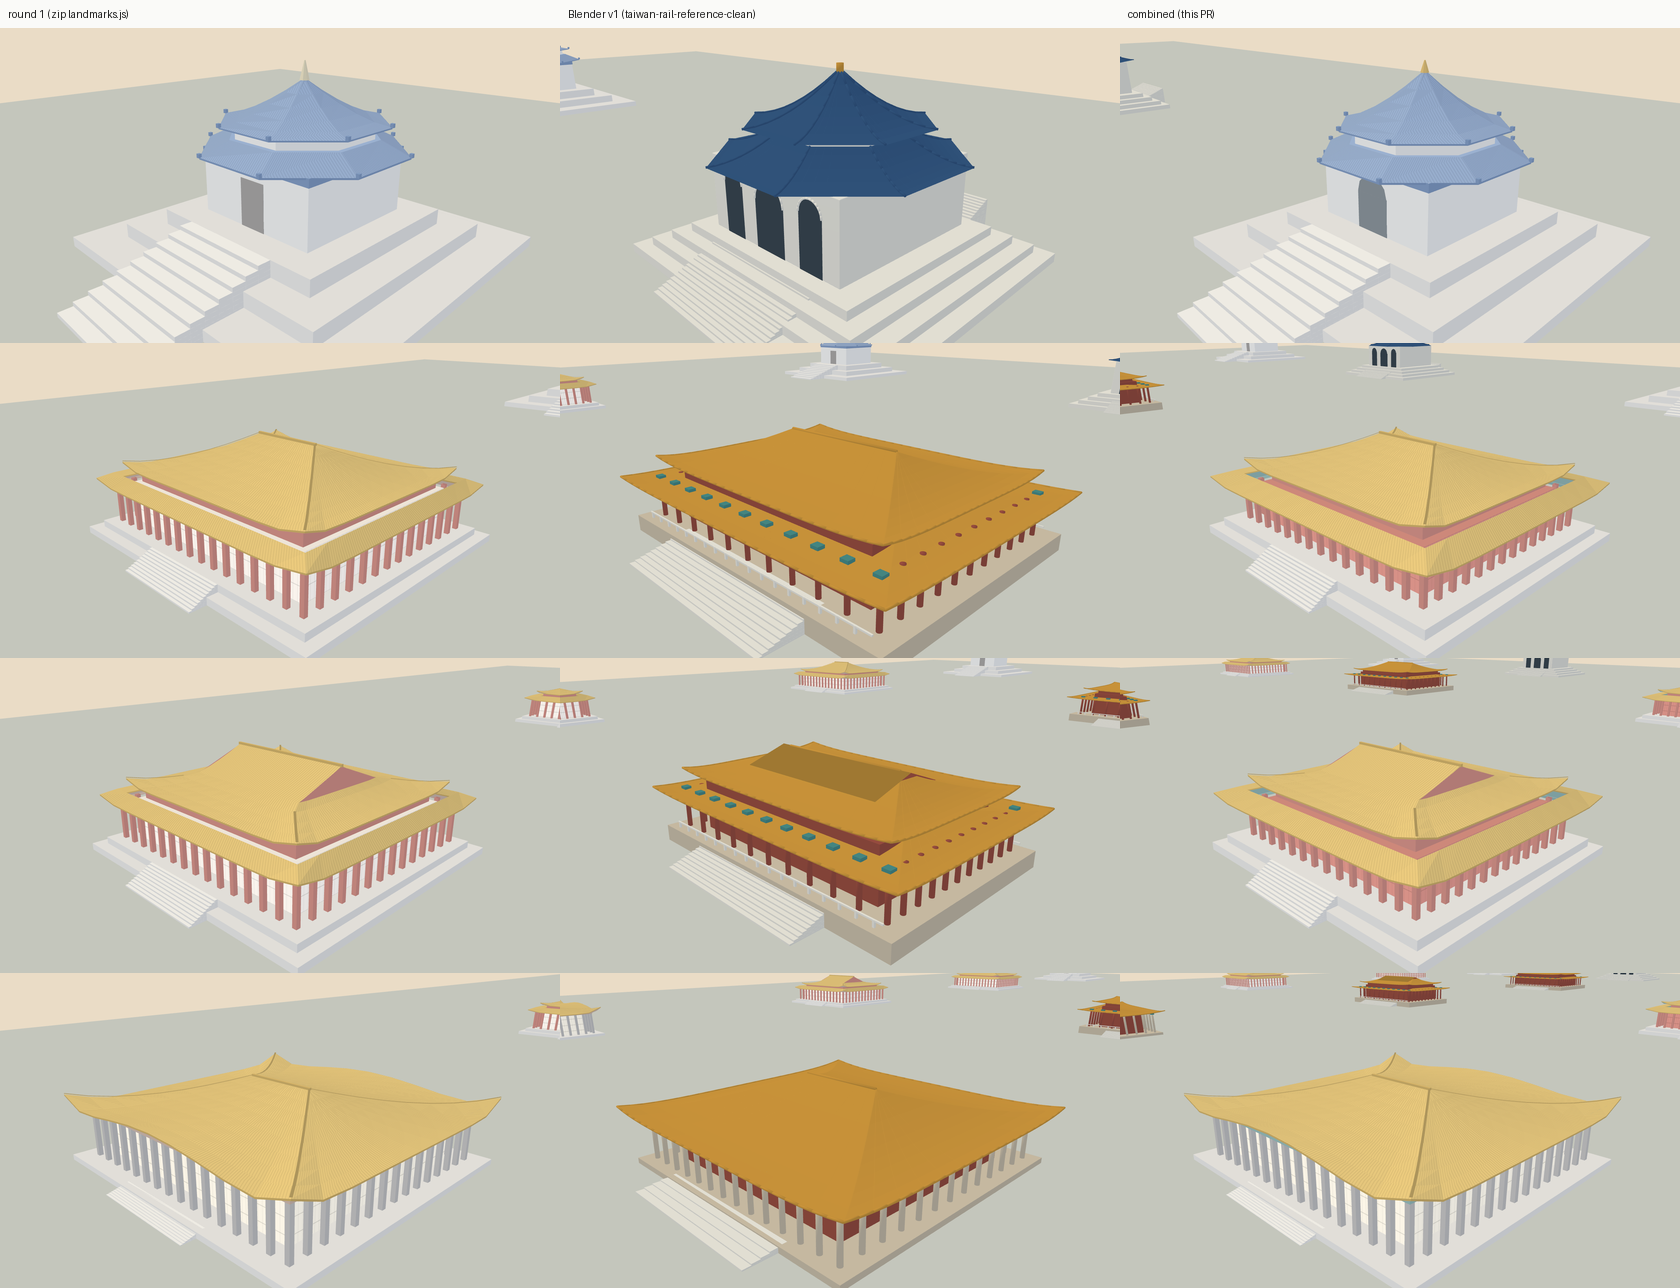
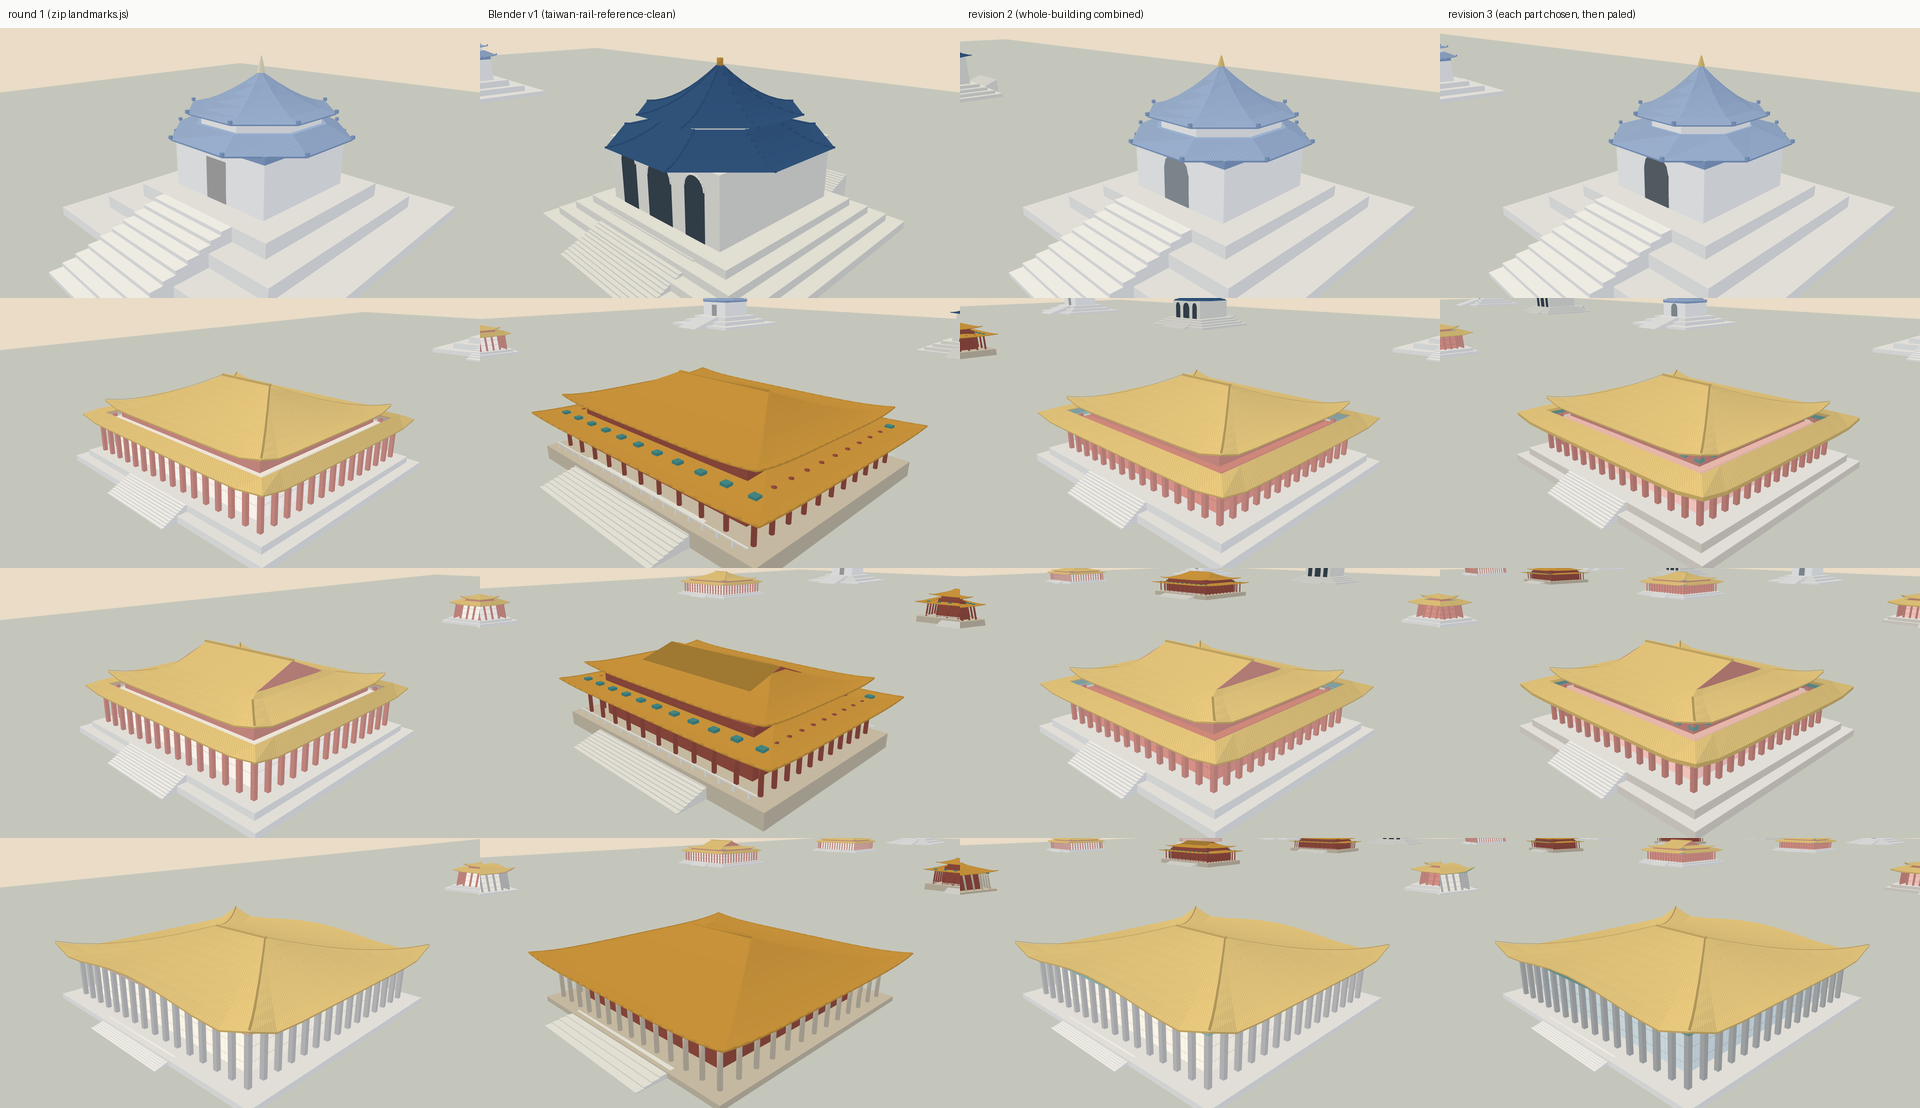
Map3D: the landmarks' parts chosen one by one, then paled (decision 457)
Each building's parts are now picked separately from round 1, the Blender
models and round 2: the memorial hall's smaller upper eave over a white
drum and dark doorway, the halls' heavy lower eave (chineseRoof's new lip),
red clerestory with green brackets, darker columns and stone podium, Sun
Yat-sen hall's glass walls. The colours are paled together and keep each
building's order of light to dark, which a test pins.

Claude-Session: https://claude.ai/code/session_01YGNNupg9BaQswnXKhfrkdv

diff --git a/Sources/GamePresentation/Map3DTaipeiPalaces.swift b/Sources/GamePresentation/Map3DTaipeiPalaces.swift
@@ -137,14 +137,14 @@ extension LandmarkMesh {
         // white drum, the upper roof to its peak, the finial.
         let sides = 8
         let phase = Float.pi / 8
-        let lowOut = Self.polygon(sides, 38, 0, cy, phase: phase), lowIn = Self.polygon(sides, 27.5, 0, cy, phase: phase)
+        let lowOut = Self.polygon(sides, 38, 0, cy, phase: phase), lowIn = Self.polygon(sides, 22, 0, cy, phase: phase)
         wallBand(lowOut, 37.9, lowOut, 38.5, ridge, Self.plain)
         band(lowOut, [Float](repeating: 38.5, count: sides), lowIn, [Float](repeating: 43.5, count: sides), blue, Self.tiles)
         cap(lowOut.reversed(), 37.9, colour("blueRidge"), Self.plain)
-        let drum = Self.polygon(sides, 25.5, 0, cy, phase: phase)
+        let drum = Self.polygon(sides, 21, 0, cy, phase: phase)
         wallBand(drum, 43.5, drum, 48.5, hall, Self.plain)
         cap(lowIn, 43.5, blue, Self.plain)
-        let upOut = Self.polygon(sides, 31, 0, cy, phase: phase)
+        let upOut = Self.polygon(sides, 27.7, 0, cy, phase: phase)
         wallBand(upOut, 48, upOut, 48.5, ridge, Self.plain)
         cap(upOut.reversed(), 48, ridge, Self.plain)
         pyramidRoof(upOut, 0, cy, from: 48.5, to: 66, steps: full ? 5 : 3, blue)
@@ -153,7 +153,7 @@ extension LandmarkMesh {
         wallBand(foot, 65.9, tip, 70, colour("finial"), Self.plain)
         cap(tip, 70, colour("finial"), Self.plain)
         if full {
-            for (r, z) in [(Float(31), Float(48.5)), (38, 38.5)] {
+            for (r, z) in [(Float(27.7), Float(48.5)), (38, 38.5)] {
                 for p in Self.polygon(8, r, 0, cy, phase: phase) {
                     box(p.x - 0.6, p.y - 0.6, z, p.x + 0.6, p.y + 0.6, z + 1.4, ridge, Self.plain)
                 }
@@ -205,20 +205,23 @@ extension LandmarkMesh {
     /// hip-and-gable (歇山); broad steps up the front (-y), toward the
     /// square.
     mutating func performingArtsHall(_ hx: Float, _ hy: Float, kind: RoofKind) {
-        let stone = colour("stone"), red = colour("vermilion"), gold = colour("goldTile"), goldRidge = colour("goldRidge")
-        box(-hx, -hy, 0, hx, hy, 3, stone, Self.plain, top: colour("plinth"))
-        box(-hx + 4, -hy + 4, 3, hx - 4, hy - 4, 6, stone, Self.plain, top: colour("plinth"))
+        let stone = colour("stone"), red = colour("hallColumn"), gold = colour("goldTile"), goldRidge = colour("goldRidge")
+        let podium = colour("podium"), bracket = colour("bracket")
+        box(-hx, -hy, 0, hx, hy, 3, podium, Self.plain, top: colour("plinth"))
+        box(-hx + 4, -hy + 4, 3, hx - 4, hy - 4, 6, podium, Self.plain, top: colour("plinth"))
         stairs(width: 34, from: -hy - 6, to: -hy + 4, height: 6, stone)
         // The hall behind a gallery 4 m deep, 14 m to the lower eave.
         let wx = hx - 15, wy = hy - 15
         box(-wx, -wy, 6, wx, wy, 20, colour("hallRed"), Self.floors)
         colonnade(hx - 11, hy - 11, 6, 20, step: 6, size: 1.6, red)
         let deck: [P2] = [(-(hx - 10), -(hy - 10)), (hx - 10, -(hy - 10)), (hx - 10, hy - 10), (-(hx - 10), hy - 10)]
-        wallBand(deck, 19, deck, 20, colour("bracket"), Self.plain)
-        // The double eave 9 m out past the columns, a red clerestory
-        // between, the upper eave over the columns.
+        wallBand(deck, 18.8, deck, 20, red, Self.plain)
+        // The double eave 9 m out past the columns, its lower edge heavy, a
+        // red clerestory between dotted with green-painted brackets at its
+        // foot, the upper eave over the columns.
+        colonnade(hx - 17.5, hy - 17.5, 22.2, 23.4, step: 6, size: 2.2, bracket)
         chineseRoof(hx - 8.5, hy - 8.5, eaves: 20, over: 6.5, rise: 11, sweep: 2.4, kind: kind, tiers: 2, tierRise: 6, tierInset: 9,
-                    colours: ChineseRoofColours(tile: gold, ridge: goldRidge, underside: colour("bracket"), gable: red, wall: red))
+                    lip: 1.2, colours: ChineseRoofColours(tile: gold, ridge: goldRidge, underside: bracket, gable: red, wall: red))
         // The plan with its steps, as OSM's, round the origin.
         shift(from: 0, by: (0, 3))
     }
@@ -326,7 +329,7 @@ extension LandmarkMesh {
     // MARK: Sun Yat-sen Memorial Hall and the Grand Hotel
 
     /// Sun Yat-sen Memorial Hall (OSM way 189788192, 30 m, its roof 10 m):
-    /// on a low white platform, grey columns round a cream hall under a
+    /// on a low white platform, grey columns round a glass hall under a
     /// gold roof whose corners sweep high and whose front and back eaves
     /// rise in the middle.
     mutating func sunYatSenMemorialHall() {
@@ -344,7 +347,7 @@ extension LandmarkMesh {
             }
         }
         let wx = hx - 12, wy = hy - 12
-        box(-wx, -wy, 2, wx, wy, 19, colour("cream"), Self.floors)
+        box(-wx, -wy, 2, wx, wy, 19, colour("hallGlass"), Self.floors)
         colonnade(hx - 7, hy - 7, 2, 19, step: 6.5, size: 1.6, colour("column"))
         let deck: [P2] = [(-(hx - 6), -(hy - 6)), (hx - 6, -(hy - 6)), (hx - 6, hy - 6), (-(hx - 6), hy - 6)]
         wallBand(deck, 18.6, deck, 19.5, colour("bracket"), Self.plain)

diff --git a/Sources/GamePresentation/Map3DChineseRoof.swift b/Sources/GamePresentation/Map3DChineseRoof.swift
@@ -97,16 +97,16 @@ extension LandmarkMesh {
 
     /// A double eave's lower roof (重簷): from walls of half sides `hx`,
     /// `hy` at `z1` out `over` and down to its eaves at `z0`, corners swept
-    /// up `sweep`; its edge and underside.
-    mutating func skirtRoof(_ hx: Float, _ hy: Float, eaves z0: Float, wall z1: Float, over: Float, sweep: Float,
+    /// up `sweep`; its edge `lip` thick and underside.
+    mutating func skirtRoof(_ hx: Float, _ hy: Float, eaves z0: Float, wall z1: Float, over: Float, sweep: Float, lip: Float = 0.45,
                             tile: UInt32, edge: UInt32, underside: UInt32) {
         let perSide = full ? (hx + over > 20 ? 10 : 6) : 4
         let (ringIn, nearIn) = Self.rectRing(hx, hy, perSide: perSide)
         let ringOut = ringIn.map { (x: $0.x * (hx + over) / hx, y: $0.y * (hy + over) / hy) }
         let up = nearIn.map { n -> Float in let t = 1 - min(n, 0.3) / 0.3; return sweep * t * t }
         band(ringOut, up.map { z0 + $0 }, ringIn, up.map { _ in z1 }, tile, Self.tiles)
-        band(ringOut, up.map { z0 - 0.45 + $0 }, ringOut, up.map { z0 + $0 }, edge, Self.plain)
-        band(ringIn, up.map { _ in z0 - 0.45 }, ringOut, up.map { z0 - 0.45 + $0 }, underside, Self.plain)
+        band(ringOut, up.map { z0 - lip + $0 }, ringOut, up.map { z0 + $0 }, edge, Self.plain)
+        band(ringIn, up.map { _ in z0 - lip }, ringOut, up.map { z0 - lip + $0 }, underside, Self.plain)
     }
 
     /// A Chinese roof of `tiers` eaves over walls of half sides `hx`, `hy`:
@@ -116,15 +116,15 @@ extension LandmarkMesh {
     /// the top roof rising `rise` from its eave, so the whole is
     /// `z0 + (tiers - 1) * tierRise + rise` high. Corners swept up `sweep`
     /// (the skirts 0.8 of it), the front and back eaves' middles `arch`
-    /// higher. Nothing in it belongs to one building: sizes and colours are
+    /// higher; the skirts' edges `lip` thick. Nothing in it belongs to one building: sizes and colours are
     /// the caller's.
     mutating func chineseRoof(_ hx: Float, _ hy: Float, eaves z0: Float, over: Float, rise: Float, sweep: Float,
                               kind: RoofKind = .hipped, arch: Float = 0, tiers: Int = 1, tierRise: Float = 0, tierInset: Float = 0,
-                              colours: ChineseRoofColours) {
+                              lip: Float = 0.45, colours: ChineseRoofColours) {
         precondition(tiers >= 1 && hx - Float(tiers - 1) * tierInset > 0 && hy - Float(tiers - 1) * tierInset > 0)
         for k in 0..<(tiers - 1) {
             let ix = hx - Float(k) * tierInset, iy = hy - Float(k) * tierInset, z = z0 + Float(k) * tierRise
-            skirtRoof(ix, iy, eaves: z, wall: z + tierRise * 0.7, over: over, sweep: sweep * 0.8, tile: colours.tile,
+            skirtRoof(ix, iy, eaves: z, wall: z + tierRise * 0.7, over: over, sweep: sweep * 0.8, lip: lip, tile: colours.tile,
                       edge: colours.ridge, underside: colours.underside)
             let jx = ix - tierInset, jy = iy - tierInset
             box(-jx, -jy, z + 0.5, jx, jy, z + tierRise, colours.wall, Self.plain)

diff --git a/Tests/GamePresentationTests/Map3DTaipeiLandmarksTests.swift b/Tests/GamePresentationTests/Map3DTaipeiLandmarksTests.swift
@@ -131,6 +131,26 @@ final class Map3DTaipeiLandmarksTests: XCTestCase {
         }
     }
 
+    /// Decision 457: each part chosen on its own, the colours paled
+    /// together; every hall keeps its parts' order of light to dark.
+    func testThePaleColoursKeepTheirOrder() {
+        func lightness(_ name: String) -> Float {
+            let c = Map3DTaipeiLandmark.palette[name]!
+            return (0.2126 * Float(c & 0xFF) + 0.7152 * Float((c >> 8) & 0xFF) + 0.0722 * Float((c >> 16) & 0xFF)) / 255
+        }
+        for order in [["goldTile", "hallRed", "hallColumn", "bracket"], ["goldTile", "hallGlass", "column", "bracket"],
+                      ["hallWhite", "blueTile", "doorway"], ["podium", "hallRed"]] {
+            for (lighter, darker) in zip(order, order.dropFirst()) {
+                XCTAssertGreaterThan(lightness(lighter), lightness(darker), "\(lighter) over \(darker)")
+            }
+        }
+        XCTAssertGreaterThan(lightness("bracket"), 0.5)
+        var thick = LandmarkMesh(full: true)
+        thick.chineseRoof(9, 6, eaves: 4, over: 1.5, rise: 3.5, sweep: 0.8, tiers: 2, tierRise: 2, tierInset: 1.2, lip: 1.2,
+                          colours: ChineseRoofColours(tile: 1, ridge: 2, underside: 3, gable: nil, wall: 4))
+        XCTAssertEqual(thick.vertices.map(\.z).min() ?? 0, 4 - 1.2, accuracy: 0.001)
+    }
+
     /// Decision 457: central Taipei's landmarks stand on OpenStreetMap's
     /// plans (the minimum box of each way, ODbL), within 2 m at the
     /// ground; each within the landmark budget.

diff --git a/Sources/GamePresentation/Map3DTaipeiLandmarks.swift b/Sources/GamePresentation/Map3DTaipeiLandmarks.swift
@@ -136,7 +136,10 @@ enum Map3DTaipeiLandmark: CaseIterable, Sendable {
         "stone": 0xF1EFEA, "hallWhite": 0xF8F7F3, "blueTile": 0x9DB4D6, "blueRidge": 0x86A0C6, "opening": 0xADAAA6,
         "finial": 0xE6C47A, "vermilion": 0xDC968A, "goldTile": 0xEACB80, "goldRidge": 0xD9B76C, "hallWall": 0xF0E8DD,
         "brick": 0xDDA996, "brickTrim": 0xF6F3EC, "slate": 0xAEB5BD, "cream": 0xF2EAD8,
-        "column": 0xCBC9C5, "gateStone": 0xD9D2C6, "greenRidge": 0x98C4AE, "hallRed": 0xD08A7E, "bracket": 0x9CC2BC, "doorway": 0x8E979C,
+        "column": 0xB5B6B2, "gateStone": 0xD9D2C6, "greenRidge": 0x98C4AE, "hallRed": 0xE8B9AE, "bracket": 0x70A09A, "doorway": 0x5E676D,
+        // Each hall's parts keep their order of light to dark: roof, wall,
+        // columns, brackets (the memorial hall: wall, roof, doorway).
+        "hallColumn": 0xD08A7E, "hallGlass": 0xC0CBCC, "podium": 0xE0D8CA,
     ].mapValues(Map3DColor.rgb)
 
     /// The model, in full close by, or without its small parts from afar.

diff --git a/docs/art/taipei-landmarks-457/README.md b/docs/art/taipei-landmarks-457/README.md
@@ -1,13 +1,14 @@
 # 台北市中心的地標：和 Blender 模型比對
 
-決策 457。中正紀念堂、國家戲劇院、國家音樂廳、國父紀念館（上到下），三版並排（左到右）：
+決策 457。中正紀念堂、國家戲劇院、國家音樂廳、國父紀念館（上到下），四版並排（左到右）：
 
 1. 第一輪：照清理包 `landmarks.js` 的屋頂與分件，用 OSM 的規格重做；
 2. 參考庫 `Railway/taiwan-rail-reference-clean/source/rail-3d/assets/blender-buildings-v1/` 的近看網格（只比對，遊戲不讀）；
-3. 合起來：每個部件取比較準的一邊（決策 457「和 Blender 模型比對」的表）。
+3. 第二輪：整棟取比較準的一邊再改幾處（決策 457「和 Blender 模型比對」的表）；
+4. 第三輪：每棟每個部件各挑最好的一版，再一起調淡、保持深淺順序（決策 457「逐件挑選」的表）。
 
 ![總覽：右前方](overview.png)
 
-這張是右前方；七個方向的七張（每張四棟 × 三版）在 `a91453/railway-assets-private` 的 `game-art-previews/docs/art/taipei-landmarks-457/revision-2/`。
+這張是右前方；七個方向的七張（每張四棟 × 四版）在 `a91453/railway-assets-private` 的 `game-art-previews/docs/art/taipei-landmarks-457/revision-3/`（第二輪的三欄圖在 `revision-2/`）。
 
 用 `tools/map3d-preview/` 的 WebGL 頁照 `Map3DShaders.metal` 的算式畫，14:00 的光線；不是 Metal、不是實機畫面。重建：`tools/map3d-preview/README.md`「地標的比對圖」。
